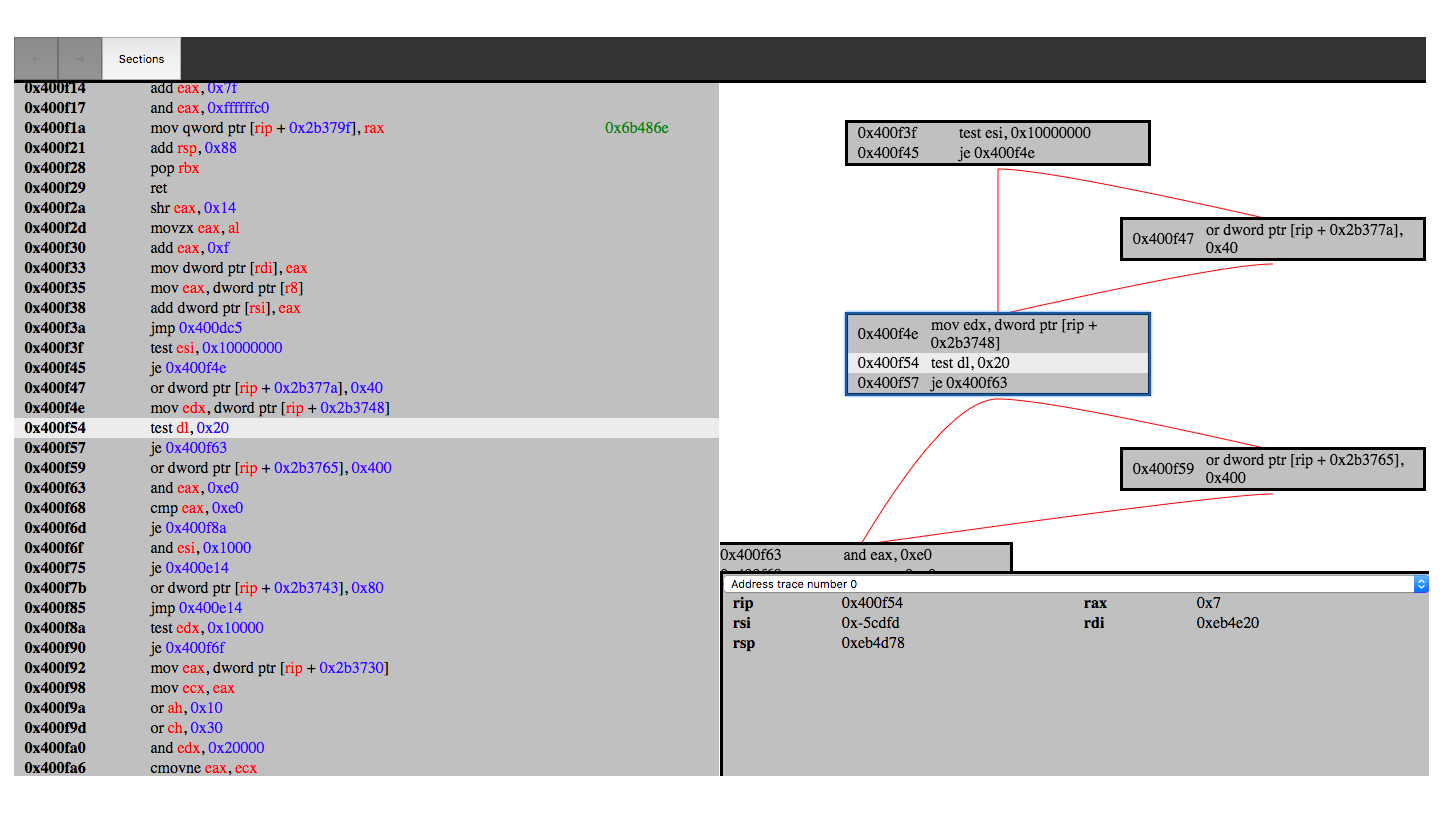
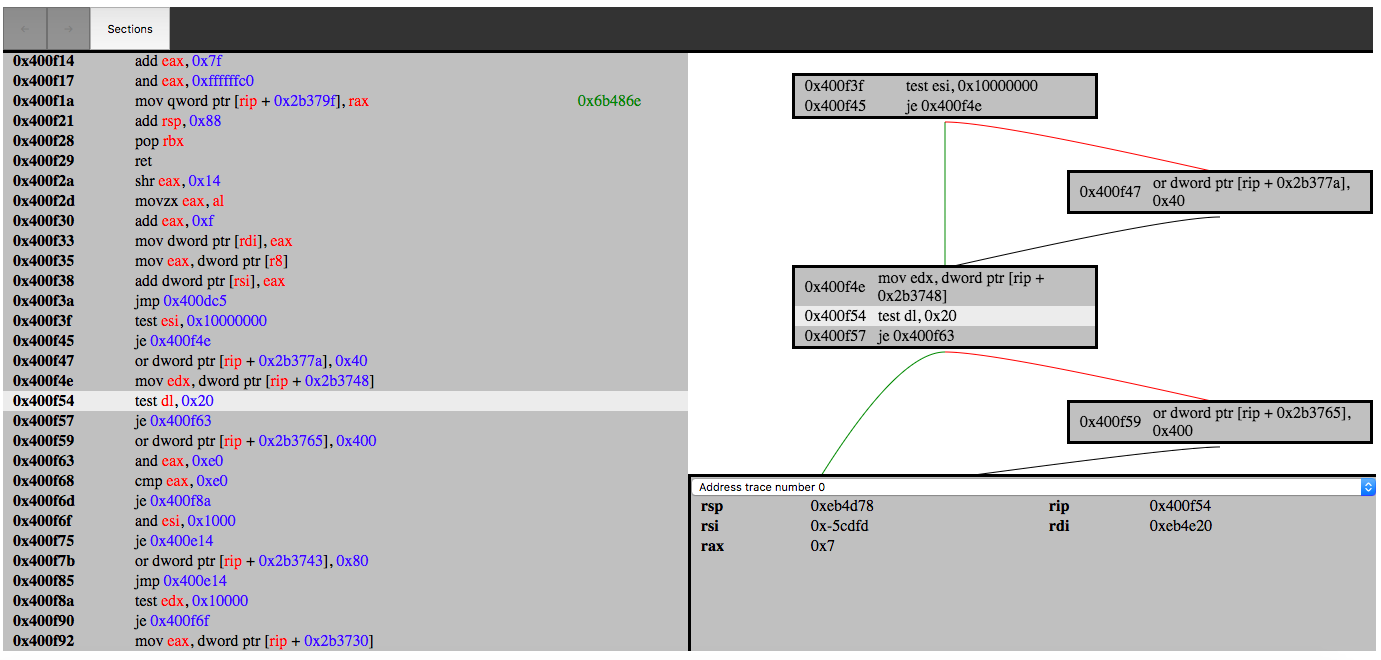
travis fix?

diff --git a/www/grapth-view/grapth.js b/www/grapth-view/grapth.js
@@ -170,7 +170,16 @@ function draw(msg){
 	        var y1 = (edge_xy.top) - delta.top;
 
 	        ctx.beginPath();
-	        ctx.strokeStyle = "red";
+	        
+	        var color = "black";
+			if(msg["type"][working_head][j] == "followed"){
+				color = "red";
+			}else if(msg["type"][working_head][j] == "jumpted"){
+				color = "green";
+			}
+			ctx.strokeStyle = color;
+
+	     //   ctx.strokeStyle = "red";
 	        ctx.moveTo(x0, y0);
 
 	        if (x0 == x1) {

diff --git a/dynamic/emulator.py b/dynamic/emulator.py
@@ -157,7 +157,7 @@ class emulator(stack_handler, memory_mapper, msr_helper, strace):
 	def log_bold_text(self, text, level=0):
 		return self.log_text(text, "bold", level)
 	
-#	@threaded
+	@threaded
 	def run(self, non_stop=False):
 		self.unicorn_debugger.non_stop = non_stop
 		self.address_register = {
@@ -180,8 +180,8 @@ class emulator(stack_handler, memory_mapper, msr_helper, strace):
 				#	print('>>> (%x) Tracing instruction at 0x%x  [0x%x] (%s), instruction size = 0x%x' % (self.unicorn_debugger.instruction_count, address, address-self.base_program_address, self.unicorn_debugger.determine_location(address), size))
 					self.log_text('>>> (%x) Tracing instruction at 0x%x  [0x%x] (%s), instruction size = 0x%x' % (self.unicorn_debugger.instruction_count, address, address-self.base_program_address, self.unicorn_debugger.determine_location(address), size))
 
-				#	for register_tuple in self.db_registers:
-				#		self.db.add_register_hit(hex(address), register_tuple[0], mu.reg_read(register_tuple[1]))
+					for register_tuple in self.db_registers:
+						self.db.add_register_hit(hex(address), register_tuple[0], mu.reg_read(register_tuple[1]))
 					
 					self.unicorn_debugger.tick(address, size)
 				

diff --git a/test/test_grapth.py b/test/test_grapth.py
@@ -7,11 +7,7 @@ described the algoritm)
 	https://rachel53461.wordpress.com/2014/04/20/algorithm-for-drawing-trees/
 '''
 import uuid
-from flask import send_from_directory
 import os
-from flask_socketio import SocketIO
-from flask import Flask, render_template
-from flask_socketio import SocketIO
 import os, sys
 
 path = "/".join(os.path.realpath(__file__).split("/")[:-2]) + "/"

diff --git a/common/web.py b/common/web.py
@@ -96,6 +96,7 @@ def event_code(json_data, methods=["GET", "POST"]):
 				"layout":grapth_layout,
 				"code":grapth_data["code"],
 				"edges":grapth_data["edges"],
+				"type":grapth_data["type"],
 				"section_name":json_data["section"],
 				"boundary":[int(grapth_data["start"], 16), int(grapth_data["end"], 16)]
 			}

diff --git a/test/test_emulator.py b/test/test_emulator.py
@@ -12,7 +12,10 @@ import sys
 # Add the ptdraft folder path to the sys.path list
 
 path = "/".join(os.path.realpath(__file__).split("/")[:-2]) + "/"
+print(path)
 sys.path.append(path)
+sys.path.append("../")
+
 
 from common.model  import *
 from elf.elf_parser import *

diff --git a/main.py b/main.py
@@ -6,7 +6,7 @@ from common.web import *
 from common.terminal import *
 
 if __name__ == "__main__":
-	use_web = False
+	use_web = True
 
 	if(1 < len(sys.argv)):
 		if(use_web):

diff --git a/test/test_coveralls.py b/test/test_coveralls.py
@@ -1,0 +1,7 @@
+# content of test_sample.py
+def inc(x):
+	return x + 1
+
+
+def test_answer():
+	assert inc(3) == 4

diff --git a/simple.py b/simple.py
@@ -1,0 +1,2 @@
+import capstone
+print("OK?")

diff --git a/README.md b/README.md
@@ -2,6 +2,7 @@
 
 # Triforce
 [![Build Status](https://travis-ci.org/2xic/Reverse-engineering-tool.svg?branch=master)](https://travis-ci.org/2xic/Reverse-engineering-tool)
+[![Coverage Status](https://coveralls.io/repos/github/2xic/Reverse-engineering-tool/badge.svg?branch=master)](https://coveralls.io/github/2xic/Reverse-engineering-tool?branch=master)
 
 <img src="README/new_version.png"  width="800px" />
 (web interface, click for better resolution)
